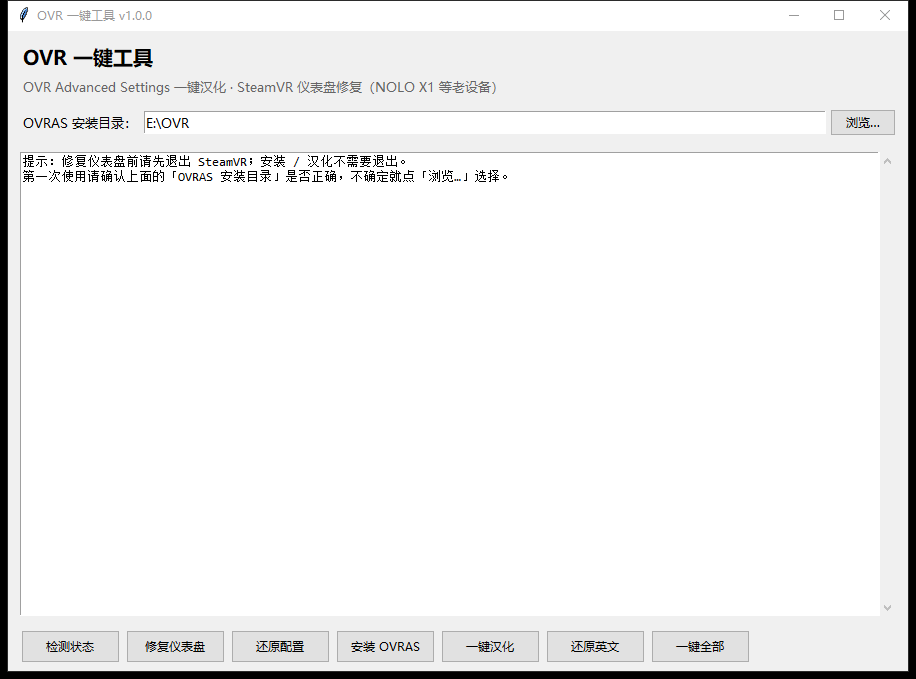
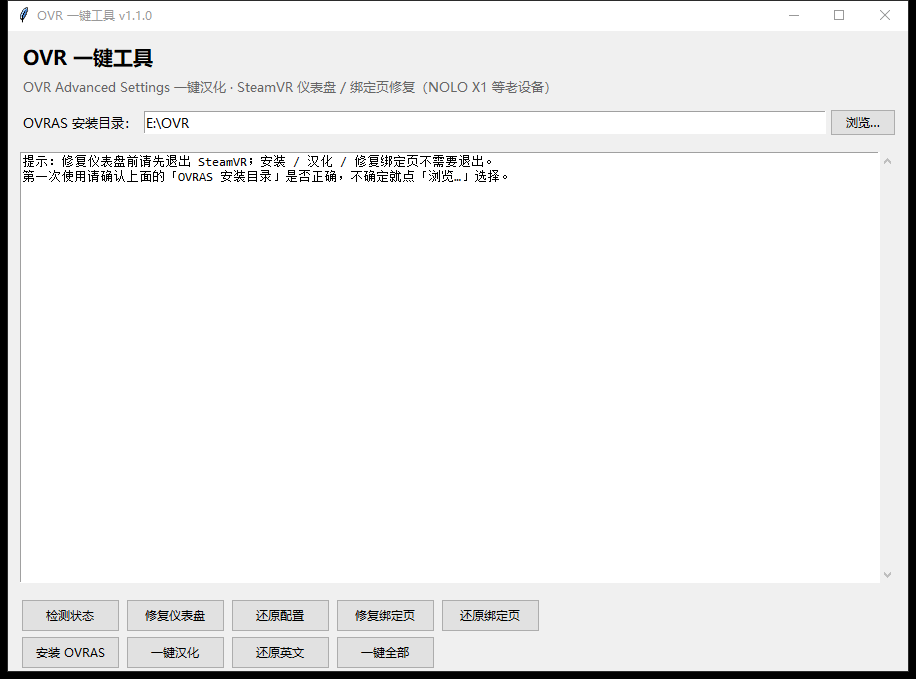
feat: 修复 SteamVR 绑定页白屏 (v1.1.0)
- 新增 bindfix / bindrevert 命令与 GUI 按钮
- controllerbindingui.js 空值保护 + 回落默认绑定
- 检测状态显示补丁状态；一键全部包含绑定页修复

diff --git a/ovras_toolkit.py b/ovras_toolkit.py
@@ -20,6 +20,12 @@ OVR 一键工具 (OVRAS Toolkit)
    把 OVRAS 的 QML 界面文本替换为简体中文（内置 249 条对照表），
    自动备份英文原版，可随时一键还原。
 
+4. 修复 SteamVR「绑定」页白屏
+   SteamVR 2.18.x 的绑定页（controllerbindingui.js）在「该应用没有用户
+   自定义绑定」时会读到 null 而抛 TypeError，整页渲染中断变成空白，
+   而且崩掉的页面不会自动重载。本工具给那段代码补上空值保护，并在没有
+   自定义绑定时回落到应用自带的默认绑定。修改会自动备份，可一键还原。
+
 只依赖 Python 标准库。解压 7z 需要 7-Zip，找不到时会自动下载 7zr.exe。
 
 用法：
@@ -30,7 +36,9 @@ OVR 一键工具 (OVRAS Toolkit)
     python ovras_toolkit.py install    # 下载并安装 OVRAS 到 --dir（默认读配置）
     python ovras_toolkit.py localize   # 汉化已安装的 OVRAS
     python ovras_toolkit.py revert     # 还原英文界面
-    python ovras_toolkit.py all        # 安装 + 汉化 + 修复仪表盘
+    python ovras_toolkit.py bindfix    # 修复 SteamVR「绑定」页白屏
+    python ovras_toolkit.py bindrevert # 还原「绑定」页原始文件
+    python ovras_toolkit.py all        # 安装 + 汉化 + 修复仪表盘 + 修复绑定页
 
 许可证：MIT
 """
@@ -48,7 +56,7 @@ import time
 import urllib.request
 
 APP_NAME = "OVR 一键工具"
-APP_VER = "1.0.0"
+APP_VER = "1.1.0"
 if getattr(sys, "frozen", False):  # PyInstaller 打包后
     EXE_DIR = os.path.dirname(sys.executable)
     DATA_DIR = os.path.join(getattr(sys, "_MEIPASS", EXE_DIR), "data")
@@ -355,6 +363,125 @@ def restore_dashboard():
     return True
 
 
+# ---------------------------------------------------------------- 绑定页白屏
+
+BINDING_UI_REL = os.path.join("resources", "webinterface", "dashboard",
+                              "controllerbindingui.js")
+
+# 【1】没有用户自定义绑定时 SteamVR 给出 current_binding_url = null，
+#     原版直接 .hasOwnProperty() 会抛 TypeError，整页白屏。
+BINDING_OLD1 = (
+    "null==this.m_sLoadedBindingURI&&t.current_binding_url.hasOwnProperty("
+    "this.m_sSelectedControllerType)&&(this.m_sLoadedBindingURI="
+    "t.current_binding_url[this.m_sSelectedControllerType])")
+BINDING_NEW1 = (
+    "null==this.m_sLoadedBindingURI&&(t.current_binding_url&&"
+    "t.current_binding_url.hasOwnProperty(this.m_sSelectedControllerType)"
+    "?this.m_sLoadedBindingURI=t.current_binding_url[this.m_sSelectedControllerType]"
+    ":t.default_bindings&&t.default_bindings[this.m_sSelectedControllerType]&&"
+    "(this.m_sLoadedBindingURI=t.default_bindings[this.m_sSelectedControllerType]))")
+# 【2】action_sets 为 null 时的同类崩溃
+BINDING_OLD2 = (
+    "null==this.m_sSelectedActionSet||!this.m_SelectedAppActions.action_sets."
+    "hasOwnProperty(this.m_sSelectedActionSet)")
+BINDING_NEW2 = (
+    "null==this.m_sSelectedActionSet||!this.m_SelectedAppActions.action_sets||"
+    "!this.m_SelectedAppActions.action_sets.hasOwnProperty("
+    "this.m_sSelectedActionSet)")
+BINDING_MARK = "t.current_binding_url&&t.current_binding_url.hasOwnProperty"
+
+
+def steamvr_dir():
+    """返回 SteamVR 安装目录。"""
+    for lib in steam_libraries():
+        d = os.path.join(lib, "steamapps", "common", "SteamVR")
+        if os.path.isdir(d):
+            return os.path.normpath(d)
+    return None
+
+
+def binding_ui_path():
+    d = steamvr_dir()
+    if not d:
+        return None
+    p = os.path.join(d, BINDING_UI_REL)
+    return p if os.path.isfile(p) else None
+
+
+def binding_patch_state():
+    """返回 (状态文字, 文件路径)。"""
+    p = binding_ui_path()
+    if not p:
+        return "未找到 SteamVR", None
+    try:
+        with open(p, encoding="utf-8", errors="surrogateescape", newline="") as f:
+            text = f.read()
+    except OSError as e:
+        return "读取失败: %s" % e, p
+    if BINDING_MARK in text:
+        return "已修复", p
+    if BINDING_OLD1 in text:
+        return "未修复（建议修复）", p
+    return "代码版本未知（可能已升级）", p
+
+
+def fix_binding_page(dry_run=False):
+    """给 SteamVR 绑定页补上空值保护，修掉白屏。"""
+    p = binding_ui_path()
+    if not p:
+        log("[错误] 没有找到 SteamVR 的绑定页文件，请确认 SteamVR 已安装。")
+        return False
+    with open(p, encoding="utf-8", errors="surrogateescape", newline="") as f:
+        text = f.read()
+    log("[文件] %s" % p)
+    if BINDING_MARK in text:
+        log("[跳过] 已经修复过了，无需重复操作。")
+        return True
+    if BINDING_OLD1 not in text:
+        log("[提示] 没找到预期代码，SteamVR 版本可能不同，未做任何修改。")
+        return False
+
+    new = text.replace(BINDING_OLD1, BINDING_NEW1, 1)
+    if BINDING_OLD2 in new:
+        new = new.replace(BINDING_OLD2, BINDING_NEW2, 1)
+        log("[加固] 同时给 action_sets 加上空值判断")
+    if dry_run:
+        log("[预演] 将替换 1 处（+%d 字符），未写入。" % (len(new) - len(text)))
+        return True
+
+    bk = backup_file(p)
+    log("[备份] %s" % bk)
+    with open(p, "w", encoding="utf-8", errors="surrogateescape", newline="") as f:
+        f.write(new)
+
+    with open(p, encoding="utf-8", errors="surrogateescape", newline="") as f:
+        check = f.read()
+    if BINDING_MARK not in check:
+        log("[错误] 写入后校验失败，请用「还原绑定页」恢复。")
+        return False
+    log("[完成] 已修补绑定页（%d -> %d 字符）。" % (len(text), len(check)))
+    log("[提示] 回到 SteamVR 重新打开「绑定」页即可生效，不需要重启 SteamVR。")
+    log("       若仍空白，退出 SteamVR 再启动一次。")
+    return True
+
+
+def revert_binding_page():
+    p = binding_ui_path()
+    if not p:
+        log("[错误] 没有找到 SteamVR 的绑定页文件。")
+        return False
+    backups = list_backups(p)
+    if not backups:
+        log("[错误] 没有找到备份文件，无法还原。")
+        return False
+    src = backups[0]
+    backup_file(p)
+    shutil.copy2(src, p)
+    log("[完成] 已用 %s 还原绑定页。" % os.path.basename(src))
+    log("[提示] 重新打开「绑定」页生效；若仍空白，重启一次 SteamVR。")
+    return True
+
+
 def show_status():
     log("== 环境 ==")
     steam = find_steam()
@@ -375,6 +502,10 @@ def show_status():
             log("  解析失败: %s" % e)
     log("SteamVR 运行: %s" % ("是（修改前请退出）" if steamvr_running() else "否"))
     log("备份数量   : %d" % (len(list_backups(path)) if path else 0))
+    state, bpath = binding_patch_state()
+    log("绑定页修复 : %s" % state)
+    if bpath:
+        log("绑定页文件 : %s" % bpath)
 
     log("== OVRAS ==")
     d = suggest_install_dir(cfg)
@@ -672,7 +803,7 @@ def run_gui():  # pragma: no cover
     head.pack(fill="x", padx=12, pady=(10, 0))
     tk.Label(head, text="%s" % APP_NAME,
              font=("Microsoft YaHei UI", 15, "bold")).pack(anchor="w")
-    tk.Label(head, text="OVR Advanced Settings 一键汉化 · SteamVR 仪表盘修复（NOLO X1 等老设备）",
+    tk.Label(head, text="OVR Advanced Settings 一键汉化 · SteamVR 仪表盘 / 绑定页修复（NOLO X1 等老设备）",
              fg="#666666").pack(anchor="w")
 
     top = tk.Frame(root)
@@ -758,6 +889,18 @@ def run_gui():  # pragma: no cover
         if messagebox.askokcancel("还原英文", "把界面还原成英文？"):
             worker("还原英文界面", lambda: revert_english(dir_var.get()))
 
+    def task_bindfix():
+        if messagebox.askokcancel(
+                "修复绑定页",
+                "给 SteamVR 的绑定页打空值保护补丁（修白屏）。\n"
+                "修改前会自动备份，可随时还原。\n"
+                "SteamVR 运行中也能执行，重开「绑定」页即生效。\n继续？"):
+            worker("修复 SteamVR 绑定页", fix_binding_page)
+
+    def task_bindrevert():
+        if messagebox.askokcancel("还原绑定页", "用最近一次备份还原 SteamVR 绑定页文件？"):
+            worker("还原 SteamVR 绑定页", revert_binding_page)
+
     def task_all():
         def seq():
             if not install_ovras(dir_var.get()):
@@ -768,29 +911,32 @@ def run_gui():  # pragma: no cover
                 log("[提示] SteamVR 正在运行，仪表盘修复已跳过。退出后点「修复仪表盘」即可。")
             else:
                 fix_dashboard(force=False)
+            fix_binding_page()
 
         if not pick_dir_if_needed():
             return
         if messagebox.askokcancel(
                 "一键全部",
-                "将依次执行：\n  1) 下载并安装 OVRAS\n  2) 汉化\n  3) 修复 SteamVR 仪表盘（SteamVR 需已退出）\n继续？"):
+                "将依次执行：\n  1) 下载并安装 OVRAS\n  2) 汉化\n"
+                "  3) 修复 SteamVR 仪表盘（SteamVR 需已退出）\n"
+                "  4) 修复 SteamVR 绑定页白屏\n继续？"):
             worker("一键全部", seq)
 
     bar = tk.Frame(root)
-    bar.pack(fill="x", padx=10, pady=8)
-    buttons = [
-        ("检测状态", task_status),
-        ("修复仪表盘", task_fix),
-        ("还原配置", task_restore),
-        ("安装 OVRAS", task_install),
-        ("一键汉化", task_localize),
-        ("还原英文", task_revert),
-        ("一键全部", task_all),
+    bar.pack(fill="x", padx=10, pady=(8, 0))
+    rows = [
+        [("检测状态", task_status), ("修复仪表盘", task_fix), ("还原配置", task_restore),
+         ("修复绑定页", task_bindfix), ("还原绑定页", task_bindrevert)],
+        [("安装 OVRAS", task_install), ("一键汉化", task_localize),
+         ("还原英文", task_revert), ("一键全部", task_all)],
     ]
-    for text, fn in buttons:
-        ttk.Button(bar, text=text, command=fn).pack(side="left", padx=3, ipadx=6, ipady=3)
+    for row in rows:
+        line = tk.Frame(bar)
+        line.pack(fill="x", pady=2)
+        for text, fn in row:
+            ttk.Button(line, text=text, command=fn).pack(side="left", padx=3, ipadx=6, ipady=3)
 
-    ui_log("提示：修复仪表盘前请先退出 SteamVR；安装 / 汉化不需要退出。")
+    ui_log("提示：修复仪表盘前请先退出 SteamVR；安装 / 汉化 / 修复绑定页不需要退出。")
     ui_log("第一次使用请确认上面的「OVRAS 安装目录」是否正确，不确定就点「浏览…」选择。")
     ui_log("")
     root.mainloop()
@@ -805,7 +951,8 @@ def main(argv=None):
         description="%s v%s —— SteamVR 仪表盘修复 + OVRAS 安装/汉化" % (APP_NAME, APP_VER))
     parser.add_argument("command", nargs="?", default="gui",
                         choices=["gui", "status", "fix", "restore", "install",
-                                 "localize", "revert", "backup", "register", "all"])
+                                 "localize", "revert", "backup", "register",
+                                 "bindfix", "bindrevert", "all"])
     parser.add_argument("--dir", help="OVRAS 安装目录")
     parser.add_argument("--archive", help="使用本地 7z 安装包（离线安装）")
     parser.add_argument("--force", action="store_true", help="SteamVR 运行中也强行修改")
@@ -821,6 +968,10 @@ def main(argv=None):
         return 0 if fix_dashboard(force=args.force) else 1
     elif args.command == "restore":
         return 0 if restore_dashboard() else 1
+    elif args.command == "bindfix":
+        return 0 if fix_binding_page(dry_run=args.dry_run) else 1
+    elif args.command == "bindrevert":
+        return 0 if revert_binding_page() else 1
     elif args.command == "install":
         return 0 if install_ovras(args.dir, args.archive, not args.no_register) else 1
     elif args.command == "register":
@@ -844,6 +995,7 @@ def main(argv=None):
                 log("[提示] SteamVR 正在运行，仪表盘修复已跳过。")
             else:
                 fix_dashboard(force=args.force)
+            fix_binding_page()
         return 0 if ok else 1
     return 0
 
